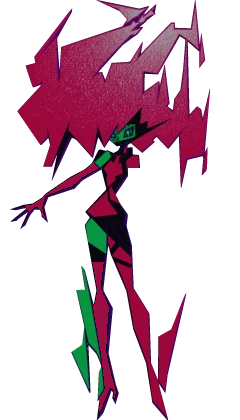
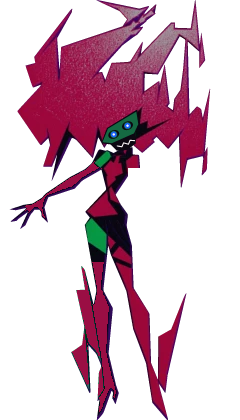
Her mask, her shard and her arms as in the show
- her mask drawn again at the show's size: tilted green, black almond
  eyes with her green ring, blue iris and white pupil, black under it
  with her white zigzag of a mouth (tools/recolor-sprite.mjs)
- the long green shard by her left shin is red, like the one on her
  other side (her thigh patch stays green)
- she rests with her arms hanging by her sides, not reaching out wide:
  the stand loop lowers them, and her standing acts' near-rest arm
  values follow (raised arms, sitting, thrown and falling poses as
  they were)
- the wide-armed idles (meditate, drift, shrug, peekaboo, side bend)
  are picked much less

diff --git a/src/renderer/js/acting.js b/src/renderer/js/acting.js
@@ -29,14 +29,15 @@ export const NEUTRAL = {
 export const ACTS = {
   // ---- stances (looping) ----
 
-  // floating: four drawings; the arms lag behind the body (down when she rises, up when she sinks)
+  // floating: four drawings; her arms hang down by her sides as in the show (the drawing's reach out,
+  // so they're lowered), lagging behind the body (down when she rises, up when she sinks)
   stand: {
     loop: true,
     keys: [
-      [6, { bob: 0, hair: -2.5, arms: 0.04 }],
-      [4, { bob: -2, hair: 0, arms: 0 }],
-      [6, { bob: -4, hair: 2.5, arms: -0.05 }],
-      [4, { bob: -2, hair: 0, arms: 0 }],
+      [6, { bob: 0, hair: -2.5, arms: -0.66 }],
+      [4, { bob: -2, hair: 0, arms: -0.7 }],
+      [6, { bob: -4, hair: 2.5, arms: -0.75 }],
+      [4, { bob: -2, hair: 0, arms: -0.7 }],
     ],
   },
 
@@ -366,17 +367,17 @@ export const ACTS = {
     priority: 3,
     fps: 24,
     keys: [
-      [2, { sy: 0.92, sx: 1.05, bob: 3, arms: -0.2 }], // wind-up
-      [1, { sx: 0.7, echo: [8, 0], mane: 0.25, arms: 0.15 }],
-      [1, { sx: 0.2, echo: [14, 0], mane: 0.35, bob: -4, arms: 0.28 }],
-      [1, { sx: -0.3, echo: [14, 0], mane: 0.35, bob: -6, arms: 0.3 }],
-      [1, { sx: -0.75, echo: [10, 0], mane: 0.3, bob: -6, arms: 0.3 }],
-      [1, { sx: -1, echo: [6, 0], bob: -6, arms: 0.28 }],
-      [1, { sx: -0.75, echo: [10, 0], mane: 0.3, bob: -5, arms: 0.3 }],
-      [1, { sx: -0.3, echo: [14, 0], mane: 0.35, bob: -4, arms: 0.3 }],
-      [1, { sx: 0.2, echo: [14, 0], mane: 0.35, bob: -2, arms: 0.25 }],
-      [1, { sx: 0.7, echo: [8, 0], mane: 0.25, arms: 0.15 }],
-      [2, { sx: 1.06, sy: 0.95, mane: 0.15, arms: -0.06 }], // overshoot
+      [2, { sy: 0.92, sx: 1.05, bob: 3, arms: -0.71 }], // wind-up
+      [1, { sx: 0.7, echo: [8, 0], mane: 0.25, arms: -0.39 }],
+      [1, { sx: 0.2, echo: [14, 0], mane: 0.35, bob: -4, arms: -0.26 }],
+      [1, { sx: -0.3, echo: [14, 0], mane: 0.35, bob: -6, arms: -0.25 }],
+      [1, { sx: -0.75, echo: [10, 0], mane: 0.3, bob: -6, arms: -0.25 }],
+      [1, { sx: -1, echo: [6, 0], bob: -6, arms: -0.26 }],
+      [1, { sx: -0.75, echo: [10, 0], mane: 0.3, bob: -5, arms: -0.25 }],
+      [1, { sx: -0.3, echo: [14, 0], mane: 0.35, bob: -4, arms: -0.25 }],
+      [1, { sx: 0.2, echo: [14, 0], mane: 0.35, bob: -2, arms: -0.29 }],
+      [1, { sx: 0.7, echo: [8, 0], mane: 0.25, arms: -0.39 }],
+      [2, { sx: 1.06, sy: 0.95, mane: 0.15, arms: -0.58 }], // overshoot
       [1, { sx: 1 }],
     ],
   },
@@ -386,14 +387,14 @@ export const ACTS = {
     priority: 3,
     fps: 24,
     keys: [
-      [3, { sy: 0.86, sx: 1.08, bob: 6, mane: -0.08, arms: -0.3 }],
+      [3, { sy: 0.86, sx: 1.08, bob: 6, mane: -0.08, arms: -0.8 }],
       [1, { sy: 1.18, sx: 0.9, bob: -10, smear: [0, 16], arms: 0.4 }],
       [2, { sy: 1.08, sx: 0.95, bob: -32, mane: 0.15, arms: 0.55 }],
       [4, { bob: -42, mane: 0.3, arms: 0.6 }],
-      [2, { sy: 1.06, bob: -26, mane: 0.2, arms: 0.35 }],
-      [1, { sy: 1.12, sx: 0.92, bob: -8, smear: [0, -14], arms: 0.15 }],
-      [2, { sy: 0.82, sx: 1.12, bob: 5, mane: -0.1, arms: -0.28 }],
-      [2, { sy: 0.94, sx: 1.04, bob: 2, arms: 0.06 }],
+      [2, { sy: 1.06, bob: -26, mane: 0.2, arms: -0.2 }],
+      [1, { sy: 1.12, sx: 0.92, bob: -8, smear: [0, -14], arms: -0.39 }],
+      [2, { sy: 0.82, sx: 1.12, bob: 5, mane: -0.1, arms: -0.79 }],
+      [2, { sy: 0.94, sx: 1.04, bob: 2, arms: -0.47 }],
       [1, {}],
     ],
   },
@@ -404,8 +405,8 @@ export const ACTS = {
     fps: 24,
     keys: [
       [2, { sy: 0.72, sx: 1.22, bob: 6, mane: -0.22, arms: -0.4 }],
-      [2, { sy: 0.88, sx: 1.08, bob: 3, mane: -0.1, arms: -0.15 }],
-      [2, { sy: 1.05, sx: 0.97, mane: 0.1, arms: 0.1 }],
+      [2, { sy: 0.88, sx: 1.08, bob: 3, mane: -0.1, arms: -0.66 }],
+      [2, { sy: 1.05, sx: 0.97, mane: 0.1, arms: -0.43 }],
       [1, {}],
     ],
   },
@@ -561,15 +562,15 @@ export const ACTS = {
   stretch: {
     priority: 1,
     keys: [
-      [2, { arms: -0.12, bob: 2, sy: 0.96, sx: 1.03 }],
+      [2, { arms: -0.64, bob: 2, sy: 0.96, sx: 1.03 }],
       [2, { arms: 0.5, bob: -4, sy: 1.05, sx: 0.97, mane: 0.1, head: -0.06 }],
       [3, { arms: 0.95, bob: -8, sy: 1.08, sx: 0.95, mane: 0.18, head: -0.1 }],
       [8, { arms: 1.05, bob: -9, sy: 1.09, sx: 0.95, mane: 0.2, head: -0.12 }],
       [1, { arms: 1.1, bob: -10, sy: 1.1, sx: 0.94, mane: 0.25, head: -0.13 }],
       [5, { arms: 1.05, bob: -9, sy: 1.09, sx: 0.95, mane: 0.2, head: -0.12 }],
-      [2, { arms: 0.3, bob: -2, mane: 0.05 }],
-      [2, { arms: -0.18, bob: 3, sy: 0.95, sx: 1.04, mane: -0.08 }],
-      [3, { arms: -0.05, bob: 1 }],
+      [2, { arms: -0.25, bob: -2, mane: 0.05 }],
+      [2, { arms: -0.69, bob: 3, sy: 0.95, sx: 1.04, mane: -0.08 }],
+      [3, { arms: -0.57, bob: 1 }],
       [1, {}],
     ],
   },
@@ -579,9 +580,9 @@ export const ACTS = {
     priority: 1,
     keys: [
       ...rep(2, [
-        [4, { tilt: -2.4, head: 0.07, hair: -3, bob: -1, arms: 0.04 }],
+        [4, { tilt: -2.4, head: 0.07, hair: -3, bob: -1, arms: -0.49 }],
         [2, { tilt: -1, head: 0.03, hair: -1, bob: -2 }],
-        [4, { tilt: 2.4, head: -0.07, hair: 3, bob: -1, arms: 0.04 }],
+        [4, { tilt: 2.4, head: -0.07, hair: 3, bob: -1, arms: -0.49 }],
         [2, { tilt: 1, head: -0.03, hair: 1, bob: -2 }],
       ]),
       [3, { head: 0.04, mane: 0.06 }],
@@ -613,8 +614,8 @@ export const ACTS = {
     priority: 1,
     keys: [
       [3, { head: -0.06, bob: 1 }],
-      [4, { head: -0.16, mane: -0.08, bob: 2, arms: -0.12 }],
-      [12, { head: -0.2, mane: -0.14, bob: 4, arms: -0.2, sy: 0.98 }],
+      [4, { head: -0.16, mane: -0.08, bob: 2, arms: -0.64 }],
+      [12, { head: -0.2, mane: -0.14, bob: 4, arms: -0.71, sy: 0.98 }],
       [2, { head: -0.1, mane: -0.06, bob: 2 }],
       [1, { head: 0.1, mane: 0.2, smear: [-8, 0] }],
       [1, { head: -0.1, mane: 0.22, smear: [8, 0] }],
@@ -662,13 +663,13 @@ export const ACTS = {
     fps: 24,
     directional: true,
     keys: [
-      [3, { head: 0.08, tilt: -2, armL: -0.2, armR: -0.2, bob: 2, sy: 0.95, sx: 1.03 }],
+      [3, { head: 0.08, tilt: -2, armL: -0.71, armR: -0.71, bob: 2, sy: 0.95, sx: 1.03 }],
       [1, { head: 0.14, tilt: 4, reach: 1, long: 1.45, smear: [-10, 0], mane: 0.18 }, 'jab'],
       [3, { head: 0.14, tilt: 3, reach: 0.95, long: 1.35, mane: 0.14 }],
       [2, { head: 0.08, tilt: 0, reach: 0.1, bob: -2 }],
       [1, { head: 0.12, tilt: 4, armL: 0.9, armR: 0.9, longL: 1.4, longR: 1.4, smear: [-10, 0], mane: 0.2 }, 'jab'],
       [3, { head: 0.12, tilt: 3, armL: 0.85, armR: 0.85, longL: 1.3, longR: 1.3, mane: 0.16 }],
-      [2, { head: 0.06, tilt: -1, arms: -0.1, bob: -4 }],
+      [2, { head: 0.06, tilt: -1, arms: -0.62, bob: -4 }],
       [2, { head: 0.1, mane: 0.12, bob: -8, sy: 1.04, sx: 0.97 }],
       [2, { head: 0.08, mane: 0.06, bob: 2, sy: 0.94, sx: 1.04 }],
       [4, { head: 0.1, mane: 0.08 }],
@@ -714,12 +715,12 @@ export const ACTS = {
     fps: 24,
     keys: [
       ...rep(3, [
-        [2, { sy: 0.92, sx: 1.05, bob: 3, arms: -0.15, mane: -0.04 }],
-        [1, { sy: 1.08, sx: 0.95, bob: -6, arms: 0.2, smear: [0, 8] }],
-        [3, { bob: -16, arms: 0.3, mane: 0.18, head: 0.04 }],
-        [2, { sy: 1.04, bob: -8, arms: 0.15, mane: 0.1 }],
+        [2, { sy: 0.92, sx: 1.05, bob: 3, arms: -0.66, mane: -0.04 }],
+        [1, { sy: 1.08, sx: 0.95, bob: -6, arms: -0.34, smear: [0, 8] }],
+        [3, { bob: -16, arms: -0.25, mane: 0.18, head: 0.04 }],
+        [2, { sy: 1.04, bob: -8, arms: -0.39, mane: 0.1 }],
       ]),
-      [2, { sy: 0.9, sx: 1.06, bob: 3, arms: -0.1 }],
+      [2, { sy: 0.9, sx: 1.06, bob: 3, arms: -0.62 }],
       [2, { bob: 1 }],
       [1, {}],
     ],
@@ -762,11 +763,11 @@ export const ACTS = {
     priority: 1,
     directional: true,
     keys: [
-      [2, { arms: -0.08, bob: 1 }],
-      [2, { arms: 0.28, bob: -3, head: 0.1, mane: 0.06 }],
-      [8, { arms: 0.34, bob: -4, head: 0.14, mane: 0.08, tilt: 1 }],
-      [2, { arms: 0.08, bob: -1, head: 0.06 }],
-      [2, { arms: -0.12, bob: 2 }],
+      [2, { arms: -0.6, bob: 1 }],
+      [2, { arms: -0.26, bob: -3, head: 0.1, mane: 0.06 }],
+      [8, { arms: -0.21, bob: -4, head: 0.14, mane: 0.08, tilt: 1 }],
+      [2, { arms: -0.45, bob: -1, head: 0.06 }],
+      [2, { arms: -0.64, bob: 2 }],
       [1, {}],
     ],
   },
@@ -776,13 +777,13 @@ export const ACTS = {
     priority: 1,
     keys: [
       ...rep(3, [
-        [3, { tilt: -3, head: 0.08, hair: -3, armL: 0.7, armR: -0.2, bob: -2 }],
+        [3, { tilt: -3, head: 0.08, hair: -3, armL: 0.7, armR: -0.71, bob: -2 }],
         [1, { tilt: 0, head: 0, bob: 1, sy: 0.96, sx: 1.03 }],
-        [3, { tilt: 3, head: -0.08, hair: 3, armL: -0.2, armR: 0.7, bob: -2 }],
+        [3, { tilt: 3, head: -0.08, hair: 3, armL: -0.71, armR: 0.7, bob: -2 }],
         [1, { tilt: 0, head: 0, bob: 1, sy: 0.96, sx: 1.03 }],
       ]),
       [2, { arms: 0.5, bob: -6, mane: 0.2 }],
-      [3, { arms: 0.1, bob: 0 }],
+      [3, { arms: -0.43, bob: 0 }],
       [1, {}],
     ],
   },
@@ -791,10 +792,10 @@ export const ACTS = {
   nod: {
     priority: 1,
     keys: [
-      [4, { head: 0.08, mane: -0.06, bob: 1, arms: -0.1 }],
-      [8, { head: 0.18, mane: -0.12, bob: 3, arms: -0.2 }],
-      [6, { head: 0.24, mane: -0.16, bob: 5, arms: -0.26 }],
-      [1, { head: 0.02, mane: 0.24, bob: -3, arms: 0.2, smear: [0, 10] }, 'snap'],
+      [4, { head: 0.08, mane: -0.06, bob: 1, arms: -0.62 }],
+      [8, { head: 0.18, mane: -0.12, bob: 3, arms: -0.71 }],
+      [6, { head: 0.24, mane: -0.16, bob: 5, arms: -0.77 }],
+      [1, { head: 0.02, mane: 0.24, bob: -3, arms: -0.34, smear: [0, 10] }, 'snap'],
       [2, { head: -0.12, mane: 0.2 }],
       [2, { head: 0.12, mane: 0.16 }],
       [3, { head: 0, mane: 0.06 }],
@@ -870,16 +871,16 @@ export const ACTS = {
     fps: 24,
     directional: true,
     keys: [
-      [3, { sy: 0.86, sx: 1.08, bob: 6, arms: -0.3, mane: -0.1 }],
+      [3, { sy: 0.86, sx: 1.08, bob: 6, arms: -0.8, mane: -0.1 }],
       [1, { sy: 1.15, sx: 0.9, bob: -14, arms: 0.5, smear: [0, 16] }],
       [1, { tilt: -45, bob: -30, arms: 0.6, mane: 0.2, echo: [6, 0] }],
-      [1, { tilt: -100, bob: -42, arms: 0.3, mane: 0.3, echo: [10, 0] }],
-      [1, { tilt: -160, bob: -50, arms: 0.1, mane: 0.36, echo: [12, 0] }],
-      [1, { tilt: -215, bob: -50, arms: 0.1, mane: 0.36, echo: [12, 0] }],
-      [1, { tilt: -270, bob: -42, arms: 0.3, mane: 0.3, echo: [10, 0] }],
+      [1, { tilt: -100, bob: -42, arms: -0.25, mane: 0.3, echo: [10, 0] }],
+      [1, { tilt: -160, bob: -50, arms: -0.43, mane: 0.36, echo: [12, 0] }],
+      [1, { tilt: -215, bob: -50, arms: -0.43, mane: 0.36, echo: [12, 0] }],
+      [1, { tilt: -270, bob: -42, arms: -0.25, mane: 0.3, echo: [10, 0] }],
       [1, { tilt: -320, bob: -28, arms: 0.5, mane: 0.2, echo: [6, 0] }],
       [1, { tilt: -360, bob: -12, arms: 0.6, sy: 1.08, sx: 0.94, smear: [0, -12] }],
-      [2, { sy: 0.8, sx: 1.14, bob: 5, arms: -0.2, mane: -0.1 }, 'land'],
+      [2, { sy: 0.8, sx: 1.14, bob: 5, arms: -0.71, mane: -0.1 }, 'land'],
       [3, { sy: 0.95, sx: 1.03, bob: 2, arms: 0.4, mane: 0.1 }],
       [6, { arms: 0.5, head: 0.1, mane: 0.12 }],
       [1, {}],
@@ -892,8 +893,8 @@ export const ACTS = {
     keys: [
       [2, { head: -0.12, mane: 0.1, bob: -2 }],
       ...rep(5, [
-        [2, { head: 0.26, mane: 0.42, bob: 3, arms: -0.2, sy: 0.96 }, 'strum'],
-        [2, { head: -0.14, mane: 0.12, bob: -2, arms: 0.1 }],
+        [2, { head: 0.26, mane: 0.42, bob: 3, arms: -0.71, sy: 0.96 }, 'strum'],
+        [2, { head: -0.14, mane: 0.12, bob: -2, arms: -0.43 }],
       ]),
       [3, { head: 0.04, mane: 0.2, arms: 0.6, bob: -4 }],
       [1, {}],
@@ -905,14 +906,14 @@ export const ACTS = {
     priority: 1,
     directional: true,
     keys: [
-      [3, { reach: 0.5, long: 1.1, armL: -0.1, tilt: -2, head: 0.06 }],
+      [3, { reach: 0.5, long: 1.1, armL: -0.62, tilt: -2, head: 0.06 }],
       ...rep(4, [
-        [2, { reach: 0.5, long: 1.1, armL: 0.2, tilt: -3, head: 0.12, bob: 1 }, 'strum'],
-        [2, { reach: 0.5, long: 1.1, armL: -0.25, tilt: -2, head: 0.04, bob: -1 }],
+        [2, { reach: 0.5, long: 1.1, armL: -0.34, tilt: -3, head: 0.12, bob: 1 }, 'strum'],
+        [2, { reach: 0.5, long: 1.1, armL: -0.76, tilt: -2, head: 0.04, bob: -1 }],
       ]),
       [1, { reach: 0.5, long: 1.1, armL: 1.2, tilt: -5, head: -0.1, mane: 0.4, smear: [0, 10] }, 'sparkle'],
       [6, { reach: 0.5, long: 1.1, armL: 1.1, tilt: -4, head: -0.08, mane: 0.3, bob: -4 }],
-      [2, { arms: 0, tilt: 0 }],
+      [2, { arms: -0.52, tilt: 0 }],
       [1, {}],
     ],
   },
@@ -1026,7 +1027,7 @@ export const ACTS = {
       [10, { arms: 1.15, longL: 0.62, longR: 0.62, head: 0.1, sy: 0.97, bob: 2 }],
       [1, { arms: 1.4, longL: 1.2, longR: 1.2, head: -0.06, mane: 0.4, bob: -8, sy: 1.06 }, 'sparkle'],
       [5, { arms: 1.3, longL: 1.1, longR: 1.1, head: -0.04, mane: 0.26, bob: -6 }],
-      [2, { arms: 0.2, bob: 0 }],
+      [2, { arms: -0.34, bob: 0 }],
       [1, {}],
     ],
   },
@@ -1092,7 +1093,7 @@ export const ACTS = {
       [1, { arms: 1.15, sx: 0.15, bob: -5, mane: 0.34, echo: [10, 0] }],
       [1, { arms: 1.1, sx: 0.6, bob: -3, mane: 0.26 }],
       [2, { arms: 0.9, sx: 1.06, sy: 0.96, mane: 0.2 }, 'sparkle'],
-      [6, { arms: 0.5, head: 0.08 }],
+      [6, { arms: -0.3, head: 0.08 }],
       [1, {}],
     ],
   },

diff --git a/src/renderer/js/capri.js b/src/renderer/js/capri.js
@@ -639,7 +639,7 @@ export class Capri {
 
   flourish() {
     if (this.stance === 'sit') this.perform(pick(['split', 'sway', 'swing', 'lounge', 'below', 'glitch', 'preen', 'shrug', 'drum', 'kickup', 'rock', 'headbang', 'think']), this.towardCenter());
-    else this.perform(pick(['spin', 'hop', 'split', 'phase', 'jab', 'bounce', 'drift', 'dance', 'glitch', 'peer', 'preen', 'flip', 'guitar', 'twirl', 'zoom', 'pump', 'wobble', 'headbang', 'salute']), this.towardCenter());
+    else this.perform(pick(['spin', 'hop', 'split', 'phase', 'jab', 'bounce', 'dance', 'glitch', 'peer', 'preen', 'flip', 'guitar', 'twirl', 'zoom', 'pump', 'wobble', 'headbang', 'salute', 'curious', 'look', 'behind']), this.towardCenter());
   }
 
   // Off somewhere new (wandering): now and then she does a little something once she's there.
@@ -663,14 +663,14 @@ export class Capri {
     const stand = sit ? 0 : 1;
     const choices = [
       ['look', 1.4], ['sway', 1.4], ['scan', 1], ['curious', near ? 3 : 1], ['phase', 1.2],
-      ['stretch', sit ? 0 : 1.5], ['yawn', bored ? 3 : 0.3], ['wave', near && this.fondness >= 2 && now - (this.wavedAt || -Infinity) > 5 * 60 * 1000 ? 1.5 : 0],
-      ['hop', sit ? 0 : 0.8], ['glitch', 1.2], ['preen', 1.2], ['shrug', 0.8], ['behind', 1.2], ['peer', sit ? 0 : near ? 0.6 : 1.4],
-      ['jab', stand], ['bounce', stand], ['drift', sit ? 0 : 1.2], ['dance', stand], ['nod', sit || !bored ? 0 : 2],
+      ['stretch', sit ? 0 : 1], ['yawn', bored ? 3 : 0.3], ['wave', near && this.fondness >= 2 && now - (this.wavedAt || -Infinity) > 5 * 60 * 1000 ? 1.5 : 0],
+      ['hop', sit ? 0 : 0.8], ['glitch', 1.2], ['preen', 1.2], ['shrug', 0.4], ['behind', 1.2], ['peer', sit ? 0 : near ? 0.6 : 1.4],
+      ['jab', stand], ['bounce', stand], ['drift', sit ? 0 : 0.5], ['dance', stand], ['nod', sit || !bored ? 0 : 2],
       ['swing', sit ? 2 : 0], ['lounge', sit ? 1.5 : 0], ['below', sit ? 1.5 : 0],
       // the bigger ones
       ['flip', sit ? 0 : 0.9], ['headbang', 1], ['guitar', stand * 1.1], ['sneeze', 0.7], ['hiccup', 0.8], ['wobble', stand],
-      ['pump', 0.9], ['facepalm', 0.8], ['think', 1.1], ['salute', near ? 1 : 0.4], ['peekaboo', near ? 1.4 : 0.5],
-      ['bend', stand], ['zoom', stand * 0.9], ['meditate', sit ? 0 : bored ? 2 : 0.7], ['twirl', stand],
+      ['pump', 0.9], ['facepalm', 0.8], ['think', 1.1], ['salute', near ? 1 : 0.4], ['peekaboo', near ? 0.7 : 0.25],
+      ['bend', stand * 0.5], ['zoom', stand * 0.9], ['meditate', sit ? 0 : bored ? 0.8 : 0.25], ['twirl', stand],
       ['drum', sit ? 1.6 : 0], ['kickup', sit ? 1.2 : 0], ['rock', sit ? 1.4 : 0], ['doze', sit && bored ? 2 : sit ? 0.4 : 0],
     ].map(([n, w]) => [n, (this.recentIdle || []).includes(n) ? 0 : w]); // none of the last few again
     let roll = Math.random() * choices.reduce((n, [, w]) => n + w, 0);
